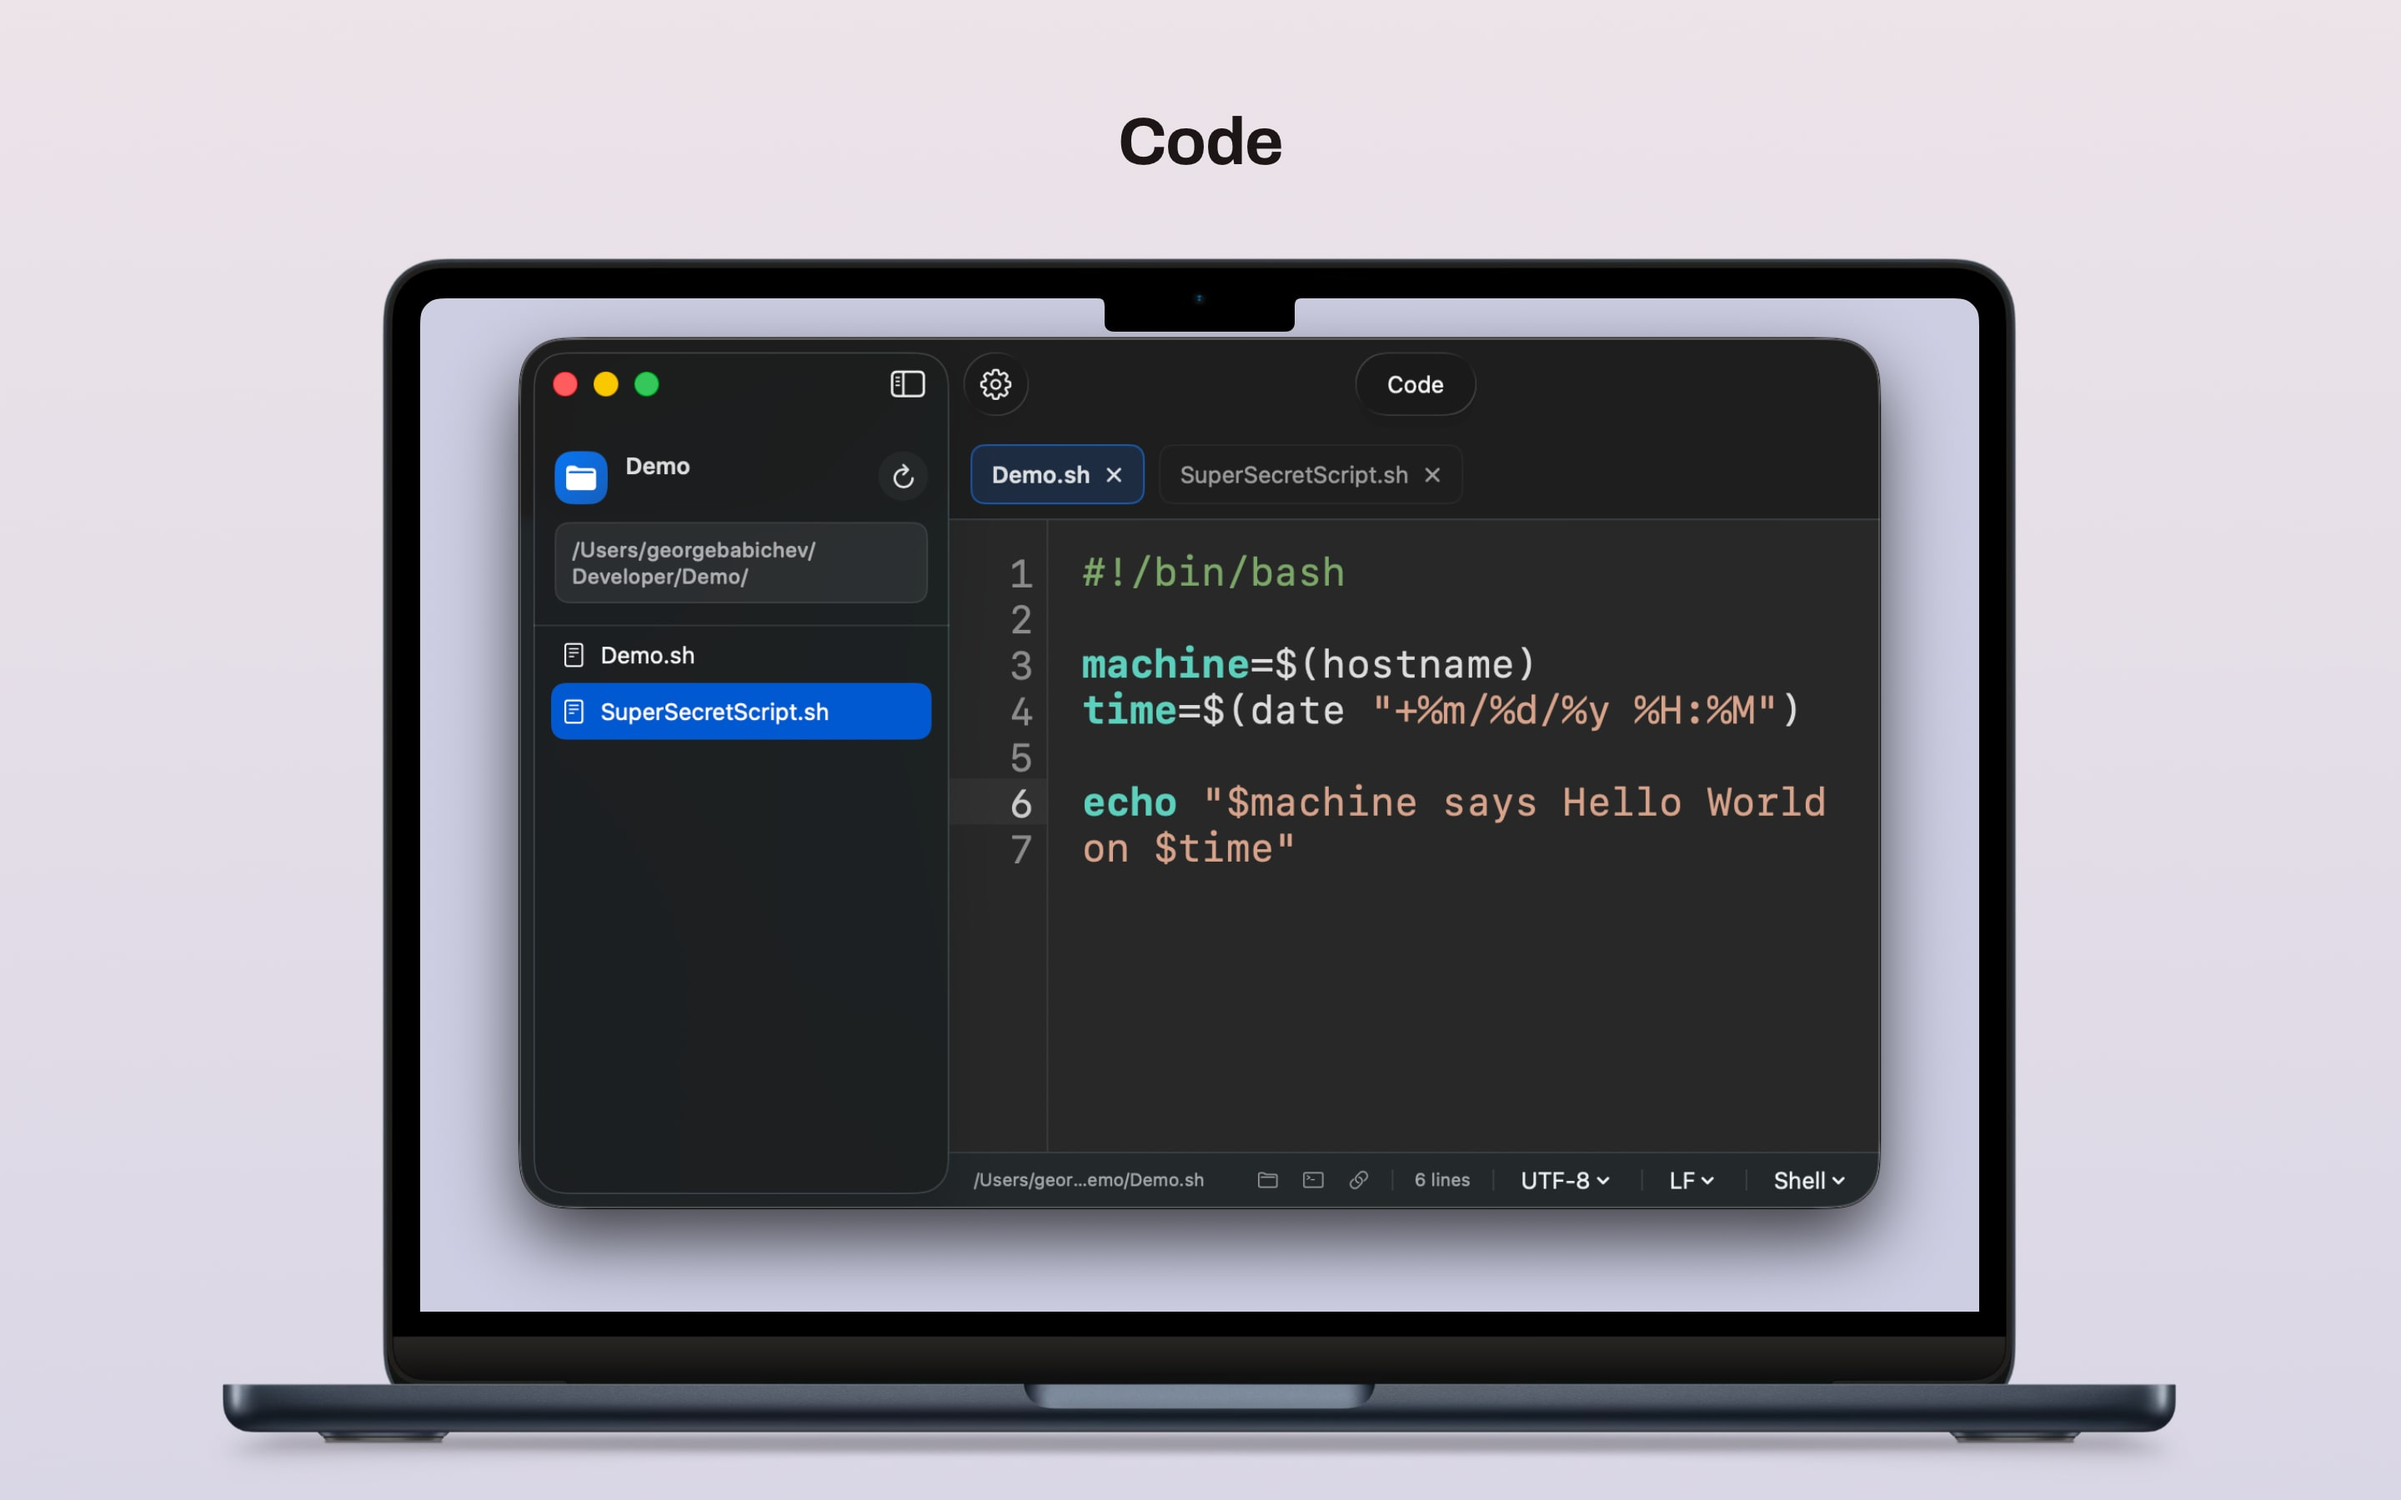
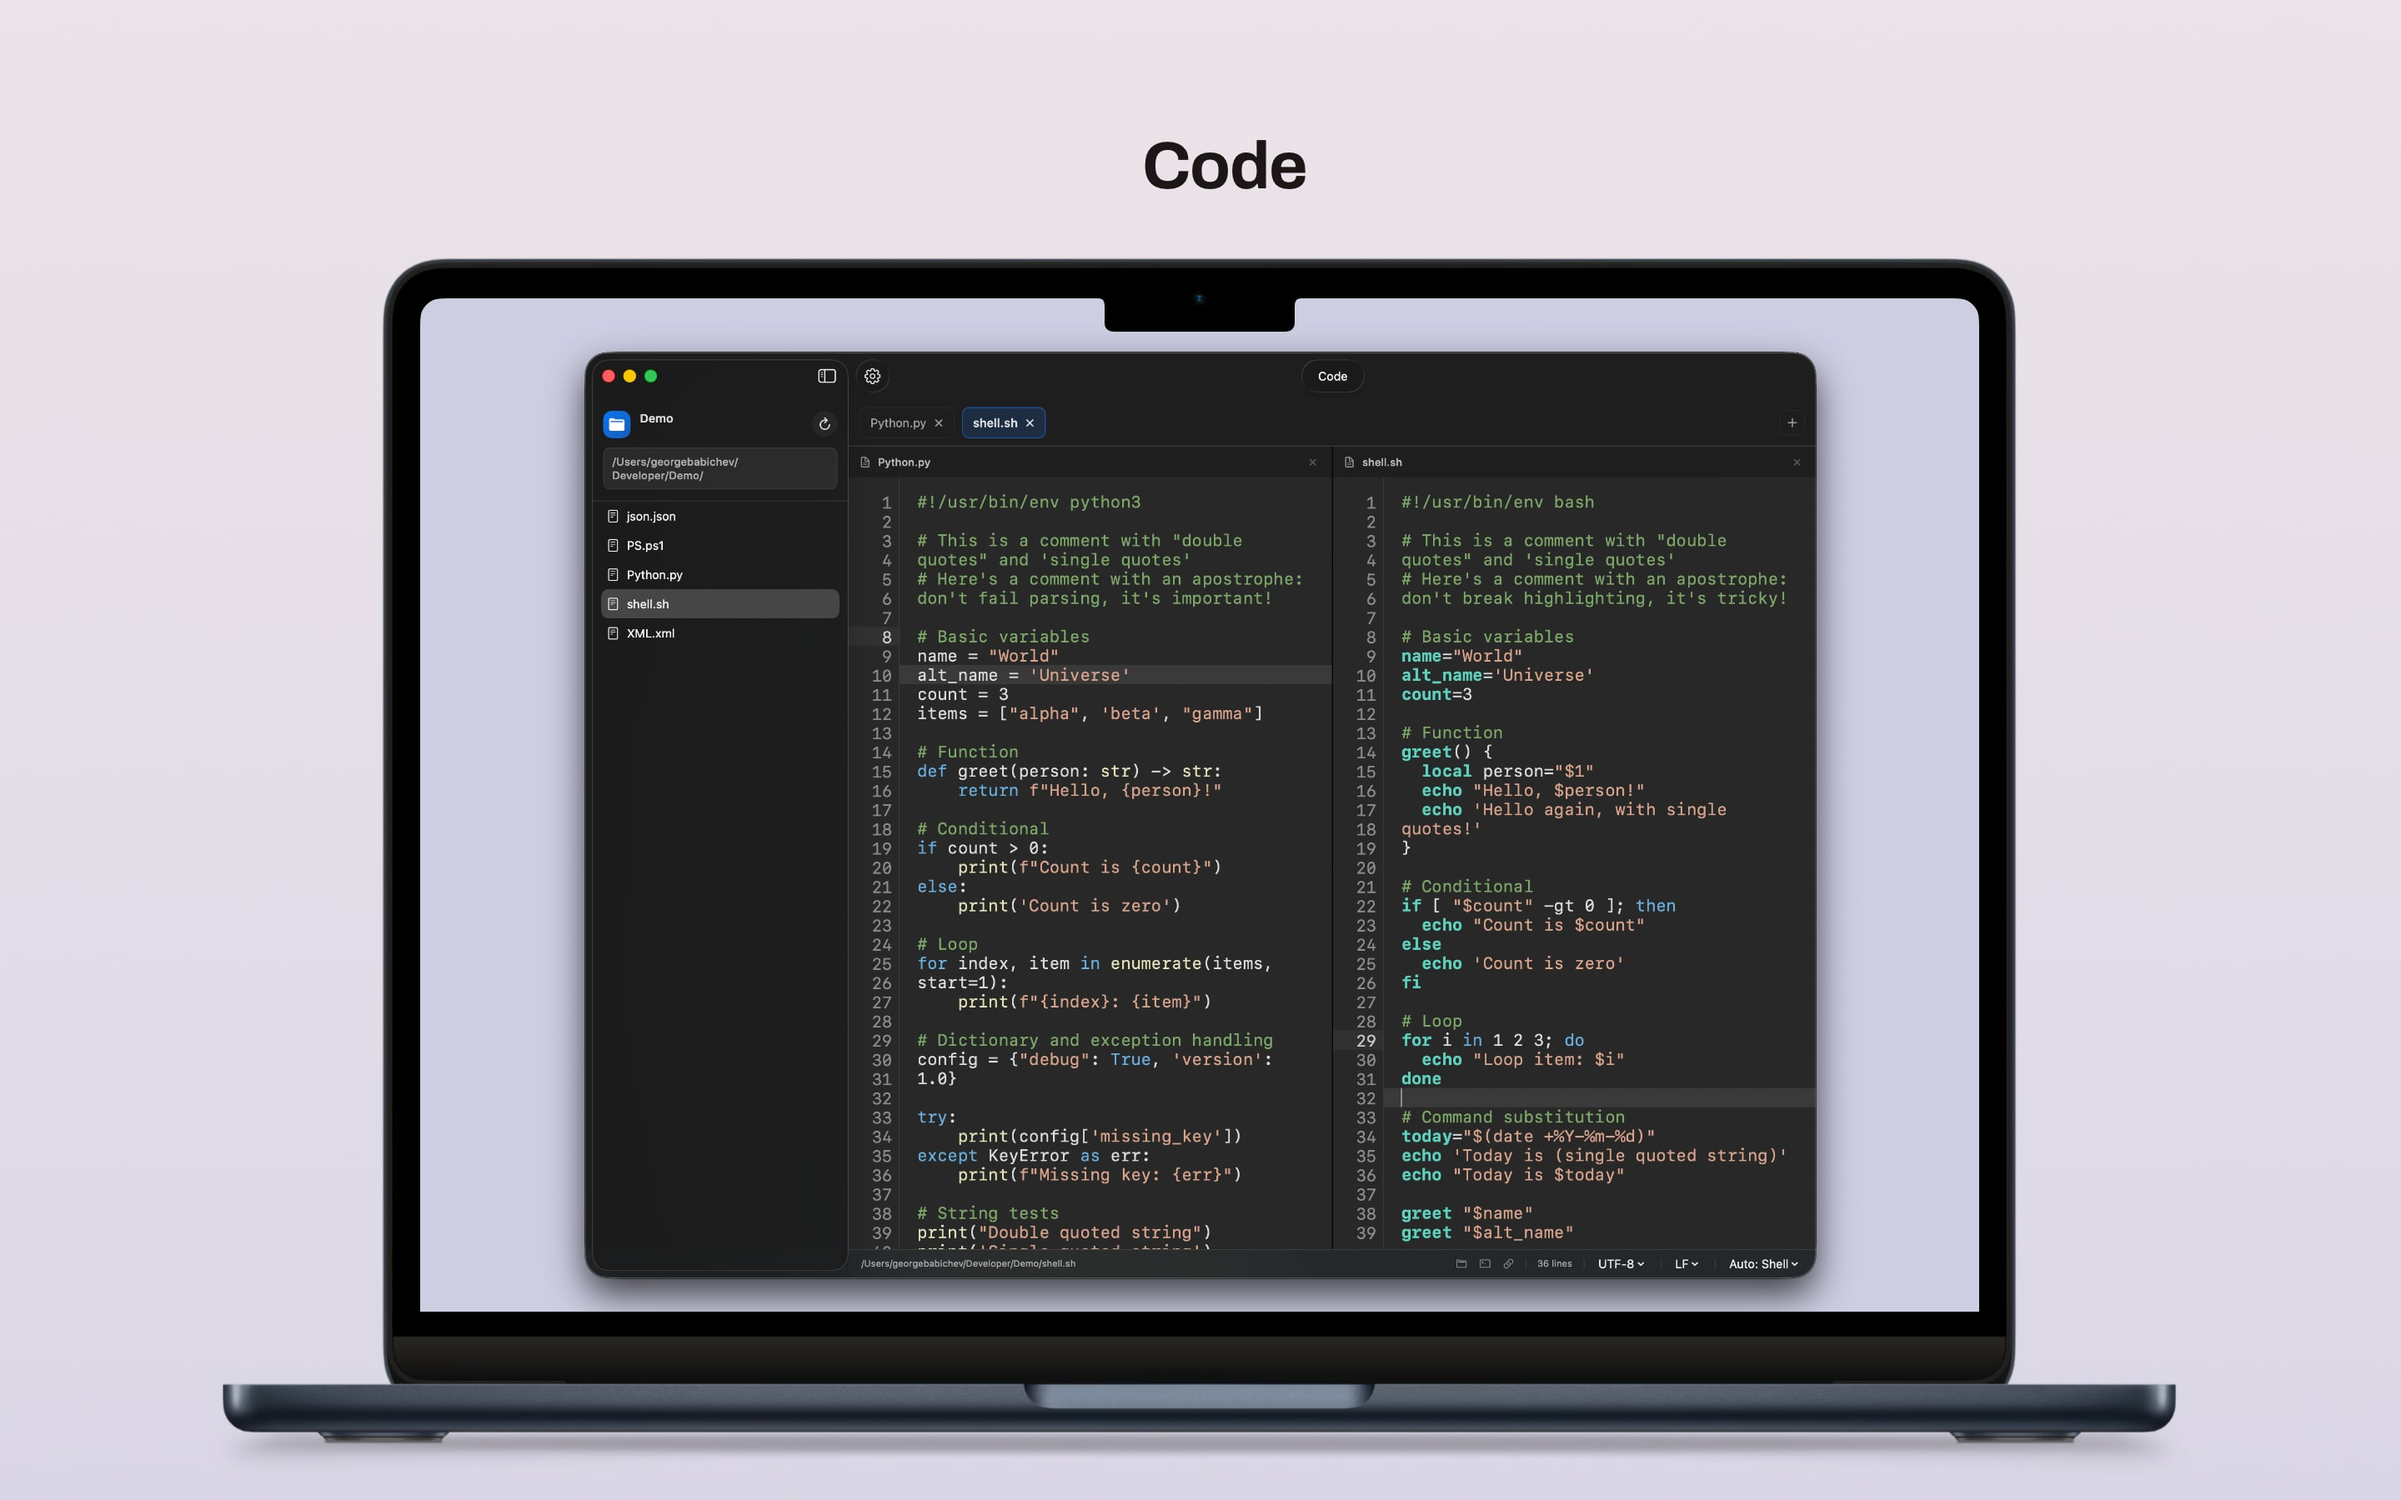
Doc updates

Changed region(s): [[0.1875, 0.2178, 0.8125, 0.8711], [0.4688, 0.0622, 0.5625, 0.1244], [0.4688, 0.6222, 0.5, 0.6533]]

diff --git a/docs/index.html b/docs/index.html
@@ -6,7 +6,7 @@
   <title>Code</title>
   <meta
     name="description"
-    content="Code is a lightweight macOS editor for quick file edits, scripts, and small tasks without the overhead of a full IDE."
+    content="Code is a lightweight macOS editor for quick file edits, scripts, and side-by-side split view work without the overhead of a full IDE."
   >
   <link rel="stylesheet" href="./styles.css">
 </head>
@@ -27,7 +27,8 @@
       <p class="summary">
         If you ever need a basic code editor on a VM, a fresh machine, or anywhere a full IDE feels
         excessive, this is built for that job. It stays intentionally small and keeps the experience
-        centered on editing files quickly.
+        centered on editing files quickly, including lightweight split view when you need two files
+        open side by side.
       </p>
       <div class="hero-actions">
         <a class="button-link" href="https://github.com/gbabichev/Code" target="_blank" rel="noreferrer">View on GitHub</a>
@@ -47,6 +48,10 @@
       <h2>Core Features</h2>
       <div class="feature-list">
         <div>
+          <h3>Split View</h3>
+          <p>Open two files side by side in the same window so scripts, configs, and related edits stay in view together.</p>
+        </div>
+        <div>
           <h3>Script-Focused Syntax Highlighting</h3>
           <p>Built-in highlighting for Shell, PowerShell, and Python keeps common scripts readable without extra setup.</p>
         </div>
@@ -55,12 +60,16 @@
           <p>Autocomplete helps with functions, variables, and symbols already in your file so small edits move faster.</p>
         </div>
         <div>
+          <h3>Find and Replace</h3>
+          <p>Search within the current file, jump between matches, and make quick replacements without leaving the editor.</p>
+        </div>
+        <div>
           <h3>Session Recovery</h3>
           <p>Quit the app and come back later without losing your open files or unsaved work in progress.</p>
         </div>
         <div>
           <h3>Multiple Tabs and Windows</h3>
-          <p>Work with several files at once, or keep separate folders open in different windows without shared state.</p>
+          <p>Work with several files at once, open related files in split view, or keep separate folders open in different windows without shared state.</p>
         </div>
         <div>
           <h3>Editor Controls That Matter</h3>

diff --git a/README.md b/README.md
@@ -5,7 +5,7 @@
 </p>
 
 <p align="center">
-  Lightweight macOS editor for quick file edits, scripts, and small tasks.
+  Lightweight macOS editor for quick file edits, scripts, and side-by-side work.
 </p>
 
 <p align="center">
@@ -24,10 +24,11 @@ Code is a small macOS-only editor built for the moments when a full IDE feels ex
 ## Features
 
 - Folder browser in the sidebar
-- Multiple tabs and multi-window support
+- Multiple tabs, split view, and multi-window support
 - Session recovery across relaunch, including unsaved work
 - Syntax highlighting for Shell, PowerShell, and Python
 - Lightweight autocomplete for in-file functions and variables
+- In-editor find and replace
 - Status bar tools for line count, encoding, line endings, Finder, Terminal, and file URL copying
 - JSON-backed syntax skin system with import/export
 
